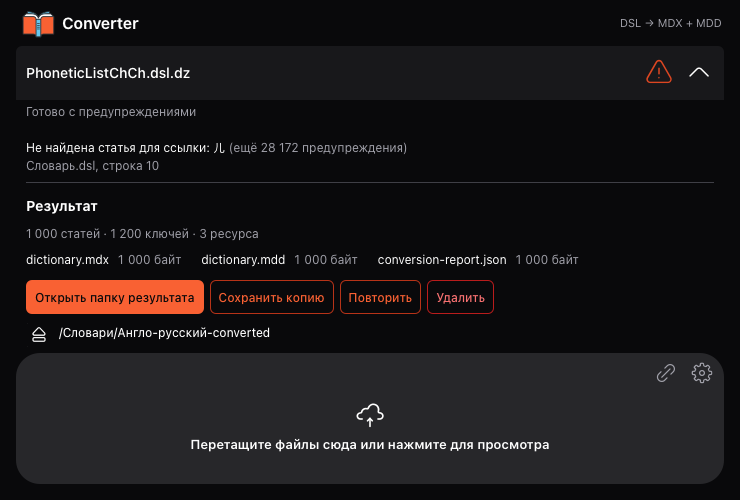
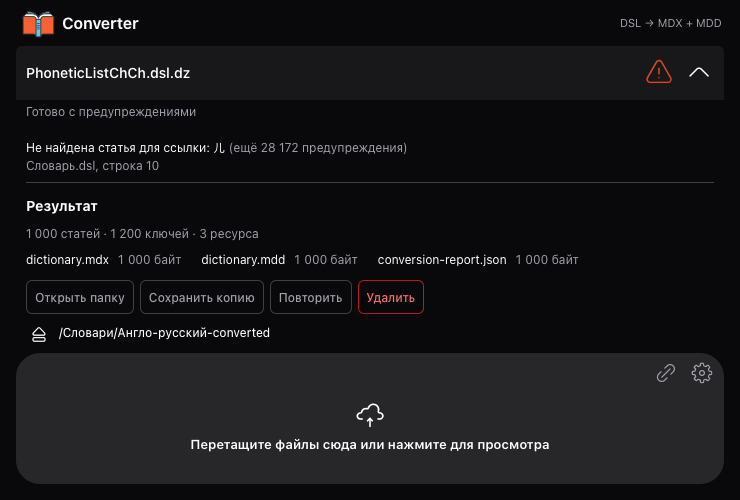
Neutralize history actions and document sibling discovery

Changed region(s): [[0.0311, 0.54, 0.6527, 0.63]]

diff --git a/src/features/jobs/CompletedHistory.vue b/src/features/jobs/CompletedHistory.vue
@@ -97,13 +97,16 @@ function warning(job: JobSnapshot) {
           <div class="history-actions" role="group" aria-label="Действия с конвертацией">
             <Button
               v-if="job.result?.can_open"
-              label="Открыть папку результата"
+              label="Открыть папку"
+              severity="secondary"
+              outlined
               :disabled="pending[job.id]"
               @click="$emit('open', job.id)"
             />
             <Button
               v-if="job.result?.can_export"
               :label="job.export.status === 'running' ? 'Сохранение…' : 'Сохранить копию'"
+              severity="secondary"
               outlined
               :disabled="pending[job.id] || job.export.status === 'running'"
               @click="$emit('export', job.id)"
@@ -111,6 +114,7 @@ function warning(job: JobSnapshot) {
             <Button
               v-if="job.state === 'awaiting_input'"
               label="Уточнить параметры"
+              severity="secondary"
               outlined
               :disabled="pending[job.id]"
               @click="$emit('repair', job.id)"
@@ -118,6 +122,7 @@ function warning(job: JobSnapshot) {
             <Button
               v-else
               label="Повторить"
+              severity="secondary"
               outlined
               :disabled="pending[job.id] || job.export.status === 'running'"
               @click="$emit('retry', job.id)"

diff --git a/src/shared/theme.ts b/src/shared/theme.ts
@@ -79,7 +79,11 @@ const ConverterPreset = definePreset(Aura, {
               focusRing: { color: '{red.600}' },
             },
           },
-          outlined: { primary: { color: '{primary.700}' }, danger: { color: '{red.700}' } },
+          outlined: {
+            primary: { color: '{primary.700}' },
+            secondary: { color: '{surface.600}' },
+            danger: { color: '{red.700}' },
+          },
           text: { primary: { color: '{primary.700}' } },
         },
       },

diff --git a/DESIGN.md b/DESIGN.md
@@ -89,6 +89,11 @@ components:
     textColor: "{colors.primary-ink-light}"
     rounded: "{rounded.control}"
     padding: "0.5rem 0.75rem"
+  button-secondary-outlined-light:
+    backgroundColor: "transparent"
+    textColor: "{colors.surface-600}"
+    rounded: "{rounded.control}"
+    padding: "0.5rem 0.75rem"
   button-text-light:
     backgroundColor: "transparent"
     textColor: "{colors.primary-ink-light}"
@@ -279,6 +284,8 @@ Dialog ограничен токеном ширины `dialog` и максима
 
 Опасное действие в истории — контурная красная кнопка; подтверждение удаления — заполненная. Светлые варианты и их состояния зафиксированы в frontmatter, фокус заполненного варианта использует цвет `danger-light`. Красный не заменяет текст действия и подтверждение.
 
+Открытие папки, сохранение копии, повтор и уточнение параметров в истории используют нейтральный `secondary outlined`: текст `surface-600` в светлой теме и унаследованный Aura `surface-400` в тёмной. Границы и hover/active сохраняют нейтральные токены Aura. Красный контур «Удалить» остаётся прежним; оранжевый сохраняет роль запуска конвертации.
+
 Круглый запуск конвертации расположен справа снизу панели с отступом (12px). Голубая кнопка отмены занимает то же место во время скачивания, а отдельная pause/resume находится рядом. Пауза визуально предлагается только скачиванию; конвертация имеет отмену и повторный запуск.
 
 Клавиатурный фокус использует общий контур (2px) с отступом (3px). Компоненты также сохраняют свои состояния фокуса Aura; цветовая смена не заменяет контур.
@@ -303,7 +310,7 @@ Dialog ограничен токеном ширины `dialog` и максима
 
 История использует множественное раскрытие Accordion. Заголовок удерживает имя, предупреждение и шеврон; длинное имя сокращается, предупреждение имеет доступную подпись. Содержимое показывает статус, результат, проверенный путь и доступное восстановление. Путь переносится и остаётся кнопкой открытия папки. История использует поверхности Aura и прозрачные пользовательские слои, а не отдельную карточную систему.
 
-В раскрытой записи с диагностикой перед результатом видно одно предупреждение с источником/строкой и подписью «(ещё N предупреждений)» при наличии остальных. Предпросмотр читает одну запись; раскрытия полного списка и пагинации в истории нет. Отдельный журнал в подробностях активного задания сохраняет страницы по 50 записей. Четыре действия готового результата стоят одной строкой в порядке «Открыть папку результата», «Сохранить копию», «Повторить», «Удалить»: размер label, отступы (7px 8px), промежуток (6px), без переноса. Проверенный путь расположен отдельной строкой ниже.
+В раскрытой записи с диагностикой перед результатом видно одно предупреждение с источником/строкой и подписью «(ещё N предупреждений)» при наличии остальных. Предпросмотр читает одну запись; раскрытия полного списка и пагинации в истории нет. Отдельный журнал в подробностях активного задания сохраняет страницы по 50 записей. Четыре действия готового результата стоят одной строкой в порядке «Открыть папку», «Сохранить копию», «Повторить», «Удалить»: размер label, отступы (7px 8px), промежуток (6px), без переноса. Первые три — нейтральные контурные; удаление — красное контурное. Проверенный путь расположен отдельной строкой ниже.
 
 ### Dialog
 
@@ -316,6 +323,8 @@ Dialog ограничен токеном ширины `dialog` и максима
 Уточнение истории проверено по пяти итоговым снимкам и измерениям `docs/validation/ui/history-actions`, протокол — `docs/validation/history-actions-2026-10-18.md`. Исходная система и пропорции 100% / 70–30% сохранены; подтверждённая корректировка системы ограничена светлыми danger-кнопками. Нативный ввод/вывод в браузерной проверке подменён.
 
 Последнее уточнение утилит и компактного предупреждения подтверждено тремя снимками и измерениями `docs/validation/ui/compact-warning`; протокол — `docs/validation/compact-warning-2026-10-18.md`. Остальные токены, композиция и движение сохранены; граница браузерной проверки та же.
+
+Нейтральные действия и подпись «Открыть папку» подтверждены обновлёнными снимками той же группы; протокол — `docs/validation/neutral-actions-2026-10-18.md`. Измеренный контраст нейтрального текста на фоне окна: 7,41:1 в светлой и 7,76:1 в тёмной теме.
 
 ## Do's and Don'ts
 

diff --git a/docs/validation/neutral-actions-2026-10-18.md b/docs/validation/neutral-actions-2026-10-18.md
@@ -1,0 +1,23 @@
+# Нейтральные действия истории — 18.10.2026
+
+Последнее уточнение пользователя: «Открыть папку», «Сохранить копию», «Повторить» серые; «Удалить» сохраняет красное оформление. Слово «результата» из первой кнопки убрано. Для этих действий применён штатный PrimeVue `secondary outlined`, для удаления сохранён `danger outlined`. Кнопка восстановления «Уточнить параметры» в той же строке тоже нейтральная. Порядок, одна строка, доступность действий, путь результата и подтверждение удаления не менялись.
+
+В светлой теме текст вторичной контурной кнопки использует Zinc600 вместо стандартного500, чтобы сохранить контраст и при нажатии. Тёмная тема использует штатный Zinc400. Красная кнопка не менялась. Поведение конвертера и ядро не менялись.
+
+Проверка до изменения воспроизвела прежнюю подпись. После изменения Vue28/28 и все четыре сценария истории (Chromium/WebKit, светлая/тёмная тема) проходят. Проверяются реальные подписи/нейтральные цвета, сохранённый красный Delete, расположение четырёх кнопок в одной строке при740/540px, предупреждение, подтверждение и очистка истории. Typecheck и форматирование проходят. Полный предыдущий набор40 браузерных сценариев был проверен на том же функциональном поведении; повторены затронутые сценарии. Rust не менялся.
+
+Текущие канонические снимки [тёмная история](ui/compact-warning/warning-dark.png), [светлая история540×400](ui/compact-warning/warning-small-light.png), [пустое окно](ui/compact-warning/empty-dark.png) и [измерения](ui/compact-warning/measurements.json) отражают это уточнение; прежние варианты доступны в Git. Компактный светлый кадр снят после завершения раскрытия и прокрутки ряда действий в видимую область. Происхождение записано в трёх PNG, ошибок JS нет. Однократный detector по изменённому компоненту вернул `[]`.
+
+Поиск связанных баз рядом с одиночным DSL добавлен **в предложение расширения**, не в ядро этой UI-правки. Проверка реальной папки пользователя подтвердила соседство Universal и PhoneticList; исходники/результаты не изменялись. Правила поиска и границы для локальных/ZIP/URL-источников записаны в [разборе](../analysis/chinese-package-2026-10-18.md).
+
+## Документирование результата
+
+Сопоставлены текущие `CompletedHistory.vue`, `src/shared/theme.ts`, три канонических снимка, измерения и finish-review. Подтверждены «Открыть папку», нейтральные secondary outlined для открытия/копии/повтора/уточнения, неизменённый красный danger outlined для удаления и одна строка действий. Нейтральный текст: rgb(82,82,91) в светлой и rgb(161,161,170) в тёмной теме; контраст с фоном окна — 7,41:1 и 7,76:1 соответственно. Предупреждение, панель 100% / 70–30%, локальные утилиты 24px/gap12 и прежняя палитра сохранены.
+
+Единственное замечание finish-review касалось старой подписи и отсутствующей записи нейтрального варианта. `PRODUCT.md`, `DESIGN.md`, sidecar и контракт поверхности точечно согласованы с кодом; новая цветовая шкала не добавлялась. Проверены JSON sidecar, ссылки компонентов на токены и отсутствие устаревшей подписи в текущих записях системы. Браузерное сравнение использует синтетические задания и подмену нативного ввода/вывода. Обнаружение соседних баз, объединение и изменение парсера остаются предложениями; прежние рекомендации по 17px/18px не менялись.
+
+## Узкая проверка приложения macOS
+
+Собран APP с окончательным кодом: `target/aarch64-apple-darwin/release/bundle/macos/Converter.app` (19,56 MiB). Предыдущий принадлежащий этой проверке простаивающий процесс завершён; перед запуском нового экземпляра `pgrep` подтвердил его отсутствие. Запущен именно новый APP. Свежие Accessibility-данные содержат «Открыть папку», «Сохранить копию», «Повторить», «Удалить»; нативный снимок 740×500 подтверждает первые три серыми, удаление красным и один ряд кнопок. Пользовательские данные сохранены. Приложение оставлено открытым на выбранном пользователем раскрытом результате `main.dsl`.
+
+Эта проверка подтверждает обновлённый ряд действий в приложении macOS. DMG/ZIP не обновлялись; широкая нативная приёмка C5 и Windows не заявляется.

diff --git a/docs/analysis/chinese-package-2026-10-18.md b/docs/analysis/chinese-package-2026-10-18.md
@@ -15,6 +15,22 @@
 
 Остальные записи — каталог, `.ann` и `.bmp`. Уже существующий `prepare_source` правильно находит **три основных словаря** и присоединяет `_abrv` к Universal. При нескольких базах приложение уже предлагает выбор, включая запуск отдельных заданий для всех. Семантической проверки межсловарных зависимостей сейчас нет.
 
+## Одиночный локальный файл: поиск в исходной папке
+
+Уточнение пользователя: внешний словарь может лежать рядом с выбранным DSL без ZIP. Это подтвердилось на реальных файлах: выбранный источник находится в `/Users/a_abramenko/Downloads/chinese/PhoneticListChCh.dsl.dz`, а в той же папке есть `UniversalChRu.dsl.dz` с `#NAME "Universal (Ch-Ru)"`, его `_abrv` и разговорник. Проверены только имена файлов и заголовки; данные не изменялись.
+
+Десктопный `PlatformStorage::import` сохраняет канонический путь исходного файла, поэтому его родительскую папку можно использовать как область поиска. Текущий `prepare_source` для одиночного файла добавляет только явно выбранные источники: автоматический поиск соседей пока **не реализован**. В схему расширения включены следующие правила:
+
+- При явной внешней ссылке `[ref dict="…"]` у локального DSL/DSL.DZ искать кандидаты среди словарных файлов **только в его исходной папке**, без обхода подпапок и переходов по символьным ссылкам. Через реестр форматов оставлять возможность других входных форматов.
+- Сначала читать заголовки кандидатов; сопоставлять `dict` с `#NAME`, а не с именем файла. Полностью разбирать только найденные зависимости и их транзитивные связи. Несвязанные соседние словари не включать в результат.
+- Одно совпадение — включить базу в связанную группу, присоединить её сокращения/ресурсы и проверить цели. Несколько баз с одинаковым названием — предложить выбор; ни одной — сообщить об отсутствующей базе. Недоступный файл или неподтверждённую кодировку отличать от отсутствующей базы.
+- Для ZIP областью поиска остаётся содержимое пакета. Для одиночного файла, скачанного по URL, не искать в служебном загрузочном кэше и не угадывать соседние URL: предложить добавить связанные файлы/папку либо пакет. Поэтому происхождение источника нужно передавать в подготовку явно, а не выводить из временного пути.
+- Найденные зависимости показывать в составе группы до конвертации; сохранить выбранный состав для повтора после перезапуска. Сохраняются предложенный переносимый режим объединения связанных баз, проверка циклов и отсутствие потери статей/ресурсов.
+
+Дополнительные проверки реализации: одиночный DSL со связанным соседом DSL.DZ, другое имя файла при подходящем `#NAME`, одинаковые названия двух соседей, отсутствие базы, недоступный/нечитаемый сосед, отсутствие сканирования подпапок/кэша, несвязанный сосед не попадает в результат.
+
+## Межсловарные ссылки
+
 В PhoneticList найдены **28 173** ссылки вида `[ref dict="Universal (Ch-Ru)"]…[/ref]`. Все они явно направлены в другой словарь. Текущий `dsl/renderer.rs` читает `target`, но теряет `dict`; `pipeline/link_index.rs` затем ищет цель только среди ключей текущего результата. Поэтому сообщения об отсутствующих статьях здесь в основном ложные по отношению к полному пакету.
 
 Точное сравнение исходных заголовков нашло 28 148 целей. После раскрытия вариантов заголовков штатной `expand_headwords` и нормализации штатной `mdx_sort_key` находятся **28 149**, остаются **24**. Это количество ссылок, не уникальных статей. Примеры оставшихся целей: `啊尔巴尼亚人`, `百分之百分之百`, `贼喊捉贼喊捉贼`. Нельзя автоматически подменять их похожими словами: отсутствие точного ключа требует отдельного сообщения и проверки содержимого источника.

diff --git a/.impeccable/surfaces/src-app-vue.md b/.impeccable/surfaces/src-app-vue.md
@@ -33,7 +33,7 @@ FINISH: unreviewed and undocumented is unfinished; this build ends with the fini
 
 Авторитетный снимок пользователя: `/Users/a_abramenko/Desktop/Screenshot 2026-10-18 at 14.35.13.png`. Это узкое расширение существующего Operate-окна: визуальный мир и композиция сохраняются.
 
-Раскрытая запись с предупреждениями показывает одно сообщение с источником/строкой перед результатом и «(ещё N предупреждений)» при наличии остальных. Предпросмотр читает одну запись; полного списка и «Показать все» в истории нет. Журнал в подробностях активного задания сохраняет страницы по 50. Для готового результата «Открыть папку результата», «Сохранить копию», «Повторить», «Удалить» стоят одной строкой, путь остаётся отдельным действием ниже.
+Раскрытая запись с предупреждениями показывает одно сообщение с источником/строкой перед результатом и «(ещё N предупреждений)» при наличии остальных. Предпросмотр читает одну запись; полного списка и «Показать все» в истории нет. Журнал в подробностях активного задания сохраняет страницы по 50. Для готового результата «Открыть папку», «Сохранить копию», «Повторить», «Удалить» стоят одной строкой, путь остаётся отдельным действием ниже.
 
 «Удалить» открывает общий Dialog с текстом «Вы действительно хотите удалить», именем словаря и пояснением о сохранности файлов. Подтверждение удаляет только историю и её журнал: исходники, загрузочный кэш и результаты остаются на диске. Активное задание удалить нельзя. Во время удаления отмена/закрытие/Escape заблокированы; ошибка сохраняет запись. После последней записи панель источника вновь занимает 100% свободного места.
 
@@ -42,3 +42,5 @@ FINISH: unreviewed and undocumented is unfinished; this build ends with the fini
 Финальные сравнения: пять снимков и измерения `docs/validation/ui/history-actions`, протокол `docs/validation/history-actions-2026-10-18.md`. Функциональная гонка Escape и единственное замечание finish-review по контрасту исправлены; итоговый вердикт ship. Это браузерная проверка с синтетическими заданиями и подменой нативного ввода/вывода; новая нативная приёмка macOS/Windows не заявляется.
 
 Последнее уточнение пользователя заменяет прежний полный список в истории компактным предупреждением выше. Утилиты ссылки и настроек: кнопка и SVG 24×24px, без рамок/фоновых плашек, промежуток 12px. Локальный `--tool-size` принадлежит `.composer-tools`; базовые иконки-кнопки приложения остаются 32px. Hover, disabled, подписи и клавиатурный фокус сохранены. Три финальных снимка и измерения: `docs/validation/ui/compact-warning`, протокол `docs/validation/compact-warning-2026-10-18.md`; свежий finish-review — ship, замечаний нет. Предлагаемая обработка связанных словарных баз из отдельного исследования архива не входит в реализованное поведение.
+
+Последняя коррекция действий истории: «Открыть папку», «Сохранить копию», «Повторить» и «Уточнить параметры» используют нейтральный secondary outlined (светлая surface600, тёмная Aura surface400). «Удалить» сохраняет красный danger outlined и подтверждение. Четыре кнопки остаются одной строкой; обновлённые снимки и измерения той же группы подтверждают коррекцию. Протокол: `docs/validation/neutral-actions-2026-10-18.md`.
